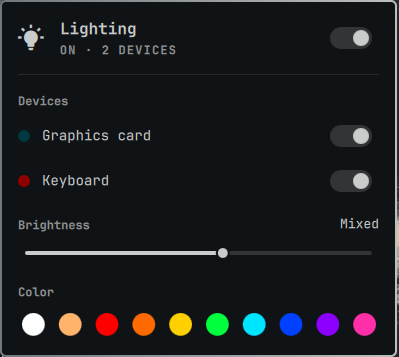
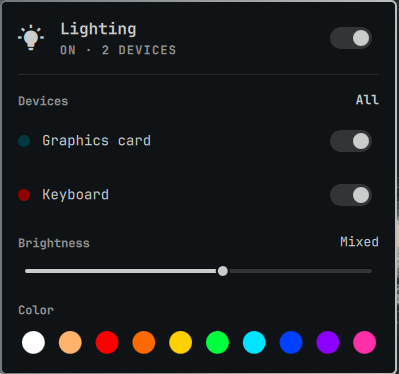
Adjust one device's brightness and color on its own (#3)

diff --git a/Panel.qml b/Panel.qml
@@ -49,7 +49,17 @@ Panel {
   readonly property string commonColor: Model.commonColor(lights)
   readonly property var brightnessInfo: Model.brightnessSummary(lights)
   readonly property string statusText: status === "unknown" ? "…" : Model.statusText(lights)
-  readonly property int brightness: brightnessInfo.value
+  // The device the slider and colors adjust on its own; "" adjusts all.
+  property string selected: ""
+  readonly property var selectedDevice: {
+    for (var i = 0; i < devices.length; i++) if (devices[i].key === selected) return devices[i]
+    return null
+  }
+  // A selected device that's gone (unplugged) falls back to all.
+  onSelectedDeviceChanged: if (selected !== "" && !selectedDevice && status === "ready") selected = ""
+  readonly property int brightness: selectedDevice ? selectedDevice.brightness : brightnessInfo.value
+  readonly property string pickedColor: selectedDevice ? selectedDevice.color : commonColor
+  function select(key) { selected = selected === key ? "" : key }
 
   readonly property var presets: ["#ffffff", "#ffb36b", "#ff0000", "#ff6a00", "#ffd000",
                                   "#00ff3c", "#00e5ff", "#0040ff", "#8c00ff", "#ff2fa8"]
@@ -74,8 +84,8 @@ Panel {
   }
   function setMaster(on) { change(Model.setMaster(saved, on)) }
   function setDevice(key, on) { change(Model.setDevice(saved, key, on)) }
-  function setBrightness(level) { change(Model.setBrightnessForAll(saved, level)) }
-  function setColor(hex) { change(Model.setColorForAll(saved, hex)) }
+  function setBrightness(level) { change(Model.setBrightnessFor(saved, selected, level)) }
+  function setColor(hex) { change(Model.setColorFor(saved, selected, hex)) }
 
   property bool sendAgain: false
   function send() {
@@ -409,14 +419,64 @@ Panel {
           width: parent.width
           spacing: Style.space(8)
 
-          PanelSectionHeader { text: "Devices"; foreground: root.foreground; fontFamily: root.fontFamily }
+          Item {
+            width: parent.width
+            implicitHeight: devicesHeader.implicitHeight
+            PanelSectionHeader {
+              id: devicesHeader
+              anchors.left: parent.left
+              text: "Devices"
+              foreground: root.foreground
+              fontFamily: root.fontFamily
+            }
+            Text {
+              id: allButton
+              anchors.right: parent.right
+              anchors.verticalCenter: devicesHeader.verticalCenter
+              text: "All"
+              textFormat: Text.PlainText
+              color: root.foreground
+              opacity: root.selected === "" ? 1 : 0.6
+              font.family: root.fontFamily
+              font.pixelSize: Style.font.bodySmall
+              font.bold: root.selected === ""
+              MouseArea {
+                anchors.fill: parent
+                anchors.margins: -Style.space(6)
+                cursorShape: Qt.PointingHandCursor
+                onClicked: root.selected = ""
+              }
+            }
+          }
 
+          // Clicking a device's name picks it for the slider and colors
+          // below; clicking it again (or All) goes back to every device.
           Repeater {
             model: root.devices
             Item {
+              id: deviceRow
               required property var modelData
+              readonly property bool picked: root.selected === modelData.key
               width: parent.width
-              implicitHeight: deviceSwitch.implicitHeight
+              implicitHeight: deviceSwitch.implicitHeight + Style.space(8)
+
+              Rectangle {
+                anchors.fill: parent
+                anchors.leftMargin: -Style.space(8)
+                radius: Math.min(6, Style.space(6))
+                color: root.foreground
+                opacity: deviceRow.picked ? 0.12 : rowMouse.containsMouse ? 0.06 : 0
+              }
+              MouseArea {
+                id: rowMouse
+                anchors.left: parent.left
+                anchors.top: parent.top
+                anchors.bottom: parent.bottom
+                anchors.right: deviceSwitch.left
+                hoverEnabled: true
+                cursorShape: Qt.PointingHandCursor
+                onClicked: root.select(deviceRow.modelData.key)
+              }
 
               Rectangle {
                 id: dot
@@ -437,6 +497,7 @@ Panel {
                 color: root.foreground
                 font.family: root.fontFamily
                 font.pixelSize: Style.font.body
+                font.bold: deviceRow.picked
               }
               ToggleSwitch {
                 id: deviceSwitch
@@ -462,14 +523,14 @@ Panel {
             PanelSectionHeader {
               id: brightnessHeader
               anchors.left: parent.left
-              text: "Brightness"
+              text: root.selectedDevice ? "Brightness · " + root.selectedDevice.label : "Brightness"
               foreground: root.foreground
               fontFamily: root.fontFamily
             }
             Text {
               anchors.right: parent.right
               anchors.verticalCenter: brightnessHeader.verticalCenter
-              text: root.brightnessInfo.mixed ? "Mixed" : root.brightness + "%"
+              text: !root.selectedDevice && root.brightnessInfo.mixed ? "Mixed" : root.brightness + "%"
               textFormat: Text.PlainText
               color: root.foreground
               font.family: root.fontFamily
@@ -495,7 +556,7 @@ Panel {
           width: parent.width
           spacing: Style.space(8)
 
-          PanelSectionHeader { text: "Color"; foreground: root.foreground; fontFamily: root.fontFamily }
+          PanelSectionHeader { text: root.selectedDevice ? "Color · " + root.selectedDevice.label : "Color"; foreground: root.foreground; fontFamily: root.fontFamily }
 
           Row {
             id: swatches
@@ -509,7 +570,7 @@ Panel {
                 required property string modelData
                 width: swatches.cell
                 height: swatches.cell
-                readonly property bool picked: root.commonColor === modelData
+                readonly property bool picked: root.pickedColor === modelData
 
                 Rectangle {
                   anchors.centerIn: parent

diff --git a/Model.js b/Model.js
@@ -104,6 +104,25 @@ function setBrightnessForAll(settings, level) {
   return next
 }
 
+// One device's color or brightness; an empty key means every device.
+function setColorFor(settings, key, hex) {
+  if (!key) return setColorForAll(settings, hex)
+  var next = copySettings(settings)
+  var look = lookFor(next, key)
+  look.color = normalColor(hex, look.color)
+  next.devices[key] = look
+  return next
+}
+
+function setBrightnessFor(settings, key, level) {
+  if (!key) return setBrightnessForAll(settings, level)
+  var next = copySettings(settings)
+  var look = lookFor(next, key)
+  look.brightness = clampBrightness(level)
+  next.devices[key] = look
+  return next
+}
+
 // ---------- OpenRGB's device list ----------
 
 var TYPE_LABELS = {
@@ -297,6 +316,8 @@ if (typeof module !== "undefined") {
     setDevice: setDevice,
     setColorForAll: setColorForAll,
     setBrightnessForAll: setBrightnessForAll,
+    setColorFor: setColorFor,
+    setBrightnessFor: setBrightnessFor,
     clampBrightness: clampBrightness,
     parseDeviceList: parseDeviceList,
     outputHex: outputHex,

diff --git a/README.md b/README.md
@@ -26,9 +26,10 @@ afterwards so every device is reachable.
 | Right-click | All lights on or off |
 | Scroll | Brighter or dimmer |
 
-In the panel, the top switch is the master switch, each device has its own
-switch, and the slider and colors apply to every device. Brightness reads
-"Mixed" when devices differ; moving it sets them all. Turning everything off
+In the panel, the top switch is the master switch and each device has its own
+switch. The slider and colors apply to every device; click a device's name to
+adjust just that one, and click it again (or All) to go back. Brightness reads
+"Mixed" when devices differ; moving it with All picked sets them all. Turning everything off
 keeps each device's look, so it comes back the same.
 
 Devices OpenRGB finds with no LEDs set up (an empty motherboard header) get no
